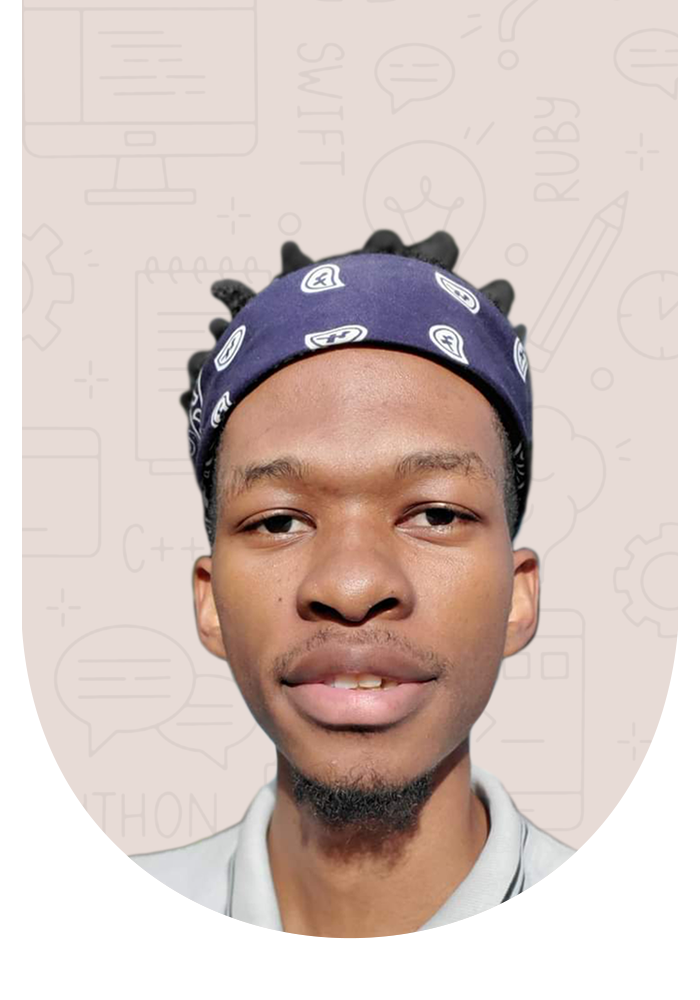
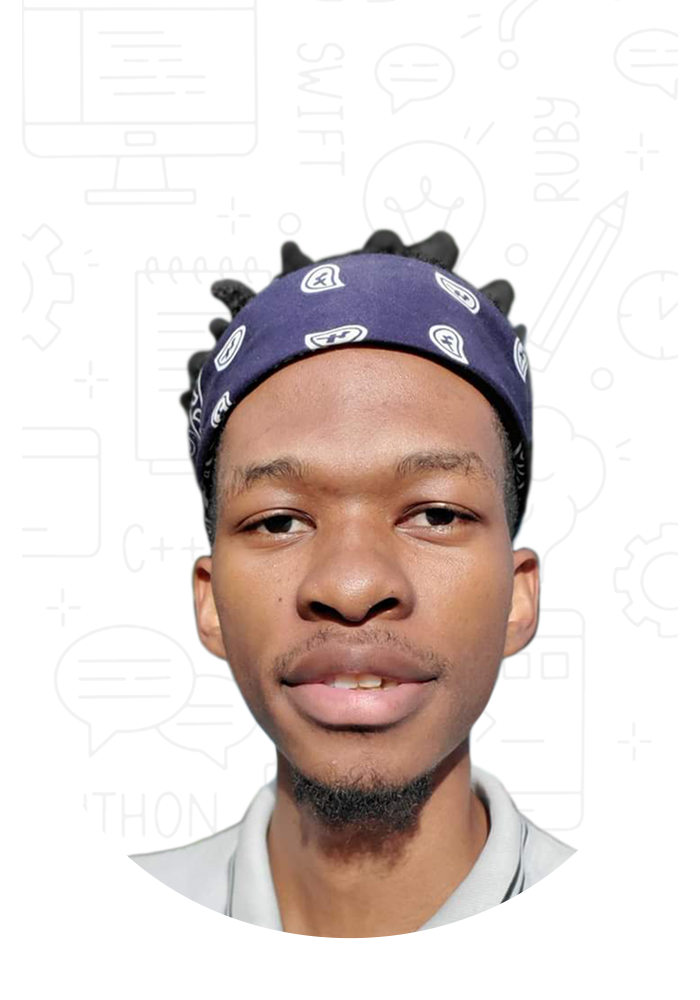
optimisations and fixes

diff --git a/pages/home_page/homeFX.css b/pages/home_page/homeFX.css
@@ -96,23 +96,28 @@ a{
 /*OPTIMIZATION CODE FOR LONG SCREENS || PHONES */
 
 #pageHeader{
-    display: grid;
-    grid-auto-flow: row;
-    grid-template-columns: 100%;
+    display: flex;
+    flex-flow: row wrap;
+    justify-content: flex-end;
     background-color: var(--orange-pallete-4);
-    justify-content: center;
+    background-image: url(../../images/page_background.png);
+    background-repeat: repeat;
     border-bottom-left-radius: var(--radius20);
     border-bottom-right-radius: var(--radius20);
     box-sizing: border-box;
 
     border: solid 2px var(--faint_gray);
-    padding: 20px 0;
+    padding-bottom: 20px;
+}
+
+#authorDetailsWrapper{
+    width: 100%;
 }
 
 #authorDPContainer{
     justify-self: center;
-    width: 250px;
-    height: 250px;
+    width: 300px;
+    margin: 0 auto;
     display: flex;
     flex-flow: row nowrap;
     align-items: center;
@@ -120,7 +125,7 @@ a{
 }
 
 #authorDP{
-    width: 80%;
+    width: 100%;
     height: auto;
 }
 
@@ -140,6 +145,8 @@ a{
 
 #authorSkill{
     font-size: var(--H1-4);
+    width: 100%;
+    padding-top: 10px;
     text-align: center;
 }
 
@@ -149,6 +156,8 @@ a{
     text-align: center;
     font-size: var(--H2-3);
     padding-top: 20px;
+    width: 100%;
+    text-align: center;
 }
 
 #contactBubblesContainer{
@@ -560,7 +569,7 @@ a{
     border-radius: 100px;
 
     box-sizing: border-box;
-    padding: 4px 10px;
+    padding: 5px 10px;
     margin: 5px 0;
 }
 
@@ -611,18 +620,22 @@ a{
 
     #pageHeader{
         grid-column: 2 !important;
-        grid-template-rows: auto auto 1fr auto;
-        border-radius: 0;
-        align-content: flex-start;
+        border-radius: 0 !important;
+        height: 100% !important;
     }
 
     #authorDetails{
         place-items: start;
     }
 
+    #authorDPContainer{
+        width: 250px;
+    }
+
     #contactBubblesContainer{
-        grid-row: 4;
-        justify-self: end;
+        display: flex;
+        flex-flow: row wrap;
+        align-items: flex-end;
     }
 
     #menu{
@@ -631,6 +644,6 @@ a{
 
     #aboutSection{
     margin-top: 20px;
-}
+    }
 
 }

diff --git a/pages/home_page/home.html b/pages/home_page/home.html
@@ -20,17 +20,21 @@
 
                 <div id="pageHeader" class="centeredInParent">
 
-                    <div id="authorDPContainer">
-                        <img src="../../images/my_dislplay_picture.png" id="authorDP" alt="augustine chulu" >
-                    </div>
+                    <div id="authorDetailsWrapper">
 
-                    <div id="authorDetailsContainer">
+                        <div id="authorDPContainer">
+                        <img src="../../images/my_dislplay_picture2.png" id="authorDP" alt="augustine chulu" >
+                        </div>
 
-                        <div id="authorDetails">
+                        <div id="authorDetailsContainer">
 
-                            <span id="authorSkill">Front-end web developer and graphics designer</span>
+                            <div id="authorDetails">
 
-                            <span id="authorName">Augustine Chulu</span>
+                                <div id="authorSkill">Front-end web developer and graphics designer</div>
+
+                                <div id="authorName">Augustine Chulu</div>
+
+                            </div>
 
                         </div>
 
